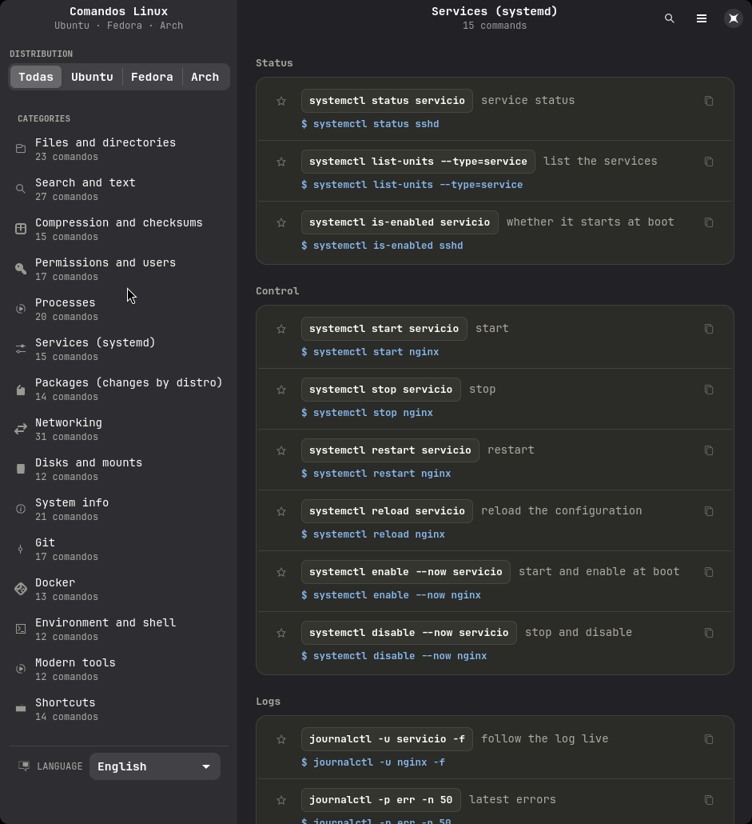
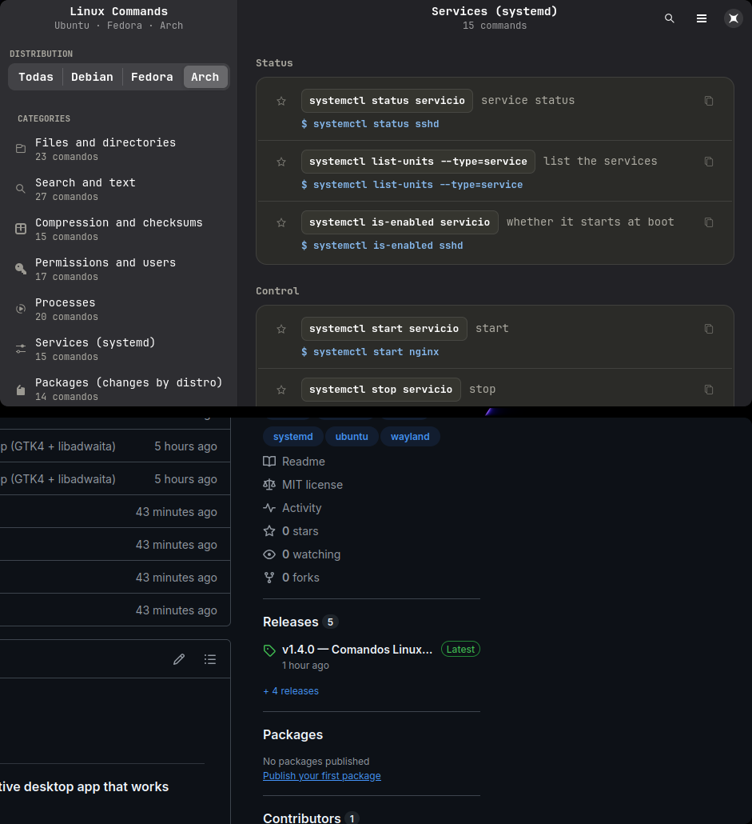
v1.5.0: English app name and fix the broken search filter
- The app now shows its own name in the active language:
  'Comandos Linux' in Spanish, 'Linux Commands' in English
  (window title, sidebar header and About dialog)
- Fix: the search query attribute shadowed the texto() helper, so the
  filter received a callable instead of a string; renamed to consulta
- README title is now 'Linux Commands'

diff --git a/src/comandos_linux/app.py b/src/comandos_linux/app.py
@@ -51,7 +51,7 @@ class ComandosApp(Adw.Application):
             # First run: use the family detected from the system.
             self.distro = self.familia_detectada or "todas"
         self.favoritos: list[str] = prefs.favoritos()
-        self.texto: str = ""
+        self.consulta: str = ""
         self._registrar_acciones()
 
     # -- ciclo de vida ---------------------------------------------------
@@ -135,7 +135,7 @@ class Ventana(Adw.ApplicationWindow):
     """Window with a navigation sidebar and a content panel."""
 
     def __init__(self, app: ComandosApp):
-        super().__init__(application=app, title="Comandos Linux")
+        super().__init__(application=app, title=app.texto("titulo_app", "Comandos Linux"))
         self.set_default_size(1080, 780)
         self.app = app
         self.add_css_class("cheatsheet")
@@ -175,14 +175,16 @@ class Ventana(Adw.ApplicationWindow):
         self.set_content(self.toasts)
 
     def _construir_sidebar(self) -> Adw.NavigationPage:
-        pagina = Adw.NavigationPage(title="Comandos Linux")
+        pagina = Adw.NavigationPage(title=self.app.texto("titulo_app", "Comandos Linux"))
 
         toolbar = Adw.ToolbarView()
         header = Adw.HeaderBar()
         header.add_css_class("sidebar-header")
-        header.set_title_widget(
-            Adw.WindowTitle(title="Comandos Linux", subtitle="Ubuntu · Fedora · Arch")
+        self.titulo_sidebar = Adw.WindowTitle(
+            title=self.app.texto("titulo_app", "Comandos Linux"),
+            subtitle="Ubuntu · Fedora · Arch",
         )
+        header.set_title_widget(self.titulo_sidebar)
         toolbar.add_top_bar(header)
 
         caja = Gtk.Box(orientation=Gtk.Orientation.VERTICAL, spacing=0)
@@ -238,13 +240,15 @@ class Ventana(Adw.ApplicationWindow):
         return pagina
 
     def _construir_contenido(self) -> Adw.NavigationPage:
-        pagina = Adw.NavigationPage(title="Comandos Linux")
+        pagina = Adw.NavigationPage(title=self.app.texto("titulo_app", "Comandos Linux"))
 
         toolbar = Adw.ToolbarView()
         header = Adw.HeaderBar()
 
         # The title is replaced by the search box when 🔍 is pressed
-        self.titulo_pagina = Adw.WindowTitle(title="Comandos Linux", subtitle="")
+        self.titulo_pagina = Adw.WindowTitle(
+            title=self.app.texto("titulo_app", "Comandos Linux"), subtitle=""
+        )
         self.buscador = Gtk.SearchEntry()
         self.buscador.set_hexpand(True)
         self.buscador.set_placeholder_text(
@@ -428,6 +432,8 @@ class Ventana(Adw.ApplicationWindow):
     def recargar(self) -> None:
         """Reloads the window after a language change."""
         self.indices = ds.indice(self.app.datos)
+        self.set_title(self.app.texto("titulo_app", "Comandos Linux"))
+        self.titulo_sidebar.set_title(self.app.texto("titulo_app", "Comandos Linux"))
         self.etiqueta_distribucion.set_label(
             self.t.get("seccion_distribucion", "DISTRIBUCIÓN")
         )
@@ -476,7 +482,7 @@ class Ventana(Adw.ApplicationWindow):
                     break
 
     def _cuenta_resultados(self) -> int:
-        return len(ds.filtrar(self.app.datos, self.app.texto, self.app.distro))
+        return len(ds.filtrar(self.app.datos, self.app.consulta, self.app.distro))
 
     # -- search --------------------------------------------------------
     def _al_toggle_busqueda(self, boton: Gtk.ToggleButton) -> None:
@@ -491,9 +497,9 @@ class Ventana(Adw.ApplicationWindow):
         self.buscador.grab_focus()
 
     def _al_buscar(self, entrada: Gtk.SearchEntry) -> None:
-        self.app.texto = entrada.get_text()
+        self.app.consulta = entrada.get_text()
         self._rellenar_resultados()
-        if self.app.texto.strip():
+        if self.app.consulta.strip():
             self.ir_a("resultados")
         else:
             self._actualizar_titulo()
@@ -604,8 +610,8 @@ class Ventana(Adw.ApplicationWindow):
     def _rellenar_resultados(self) -> None:
         self._vaciar(self.lista_resultados)
 
-        coincidencias = ds.filtrar(self.app.datos, self.app.texto, self.app.distro)
-        if not self.app.texto.strip():
+        coincidencias = ds.filtrar(self.app.datos, self.app.consulta, self.app.distro)
+        if not self.app.consulta.strip():
             self._mostrar_estado(
                 "system-search-symbolic",
                 self.t.get("vacio_buscar_titulo", "Busca un comando"),
@@ -624,7 +630,7 @@ class Ventana(Adw.ApplicationWindow):
                 self.t.get(
                     "vacio_sin_resultados_texto",
                     "No hay ningún comando que coincida con «{texto}».",
-                ).format(texto=self.app.texto),
+                ).format(texto=self.app.consulta),
             )
             return
 
@@ -777,9 +783,9 @@ class Ventana(Adw.ApplicationWindow):
     def about(self) -> None:
         ventana = Adw.AboutWindow(
             transient_for=self,
-            application_name="Comandos Linux",
+            application_name=self.app.texto("titulo_app", "Comandos Linux"),
             application_icon="comandos-linux",
-            version="1.4.0",
+            version="1.5.0",
             developer="Angel Herman",
             comments=self.t.get(
                 "about_comentarios",

diff --git a/src/comandos_linux/__init__.py b/src/comandos_linux/__init__.py
@@ -3,5 +3,5 @@
 Offline desktop application. The data lives in `datos/comandos.json`.
 """
 
-__version__ = "1.4.0"
+__version__ = "1.5.0"
 __all__ = ["__version__"]

diff --git a/README.md b/README.md
@@ -1,10 +1,13 @@
 <div align="center">
 
-# Comandos Linux
+# Linux Commands
 
 **A Linux command cheat sheet for Ubuntu, Fedora and Arch — as a native desktop app that works completely offline.**
 
-![Comandos Linux app](docs/captura-app.png)
+> The app is called *Comandos Linux* in Spanish and *Linux Commands* in English;
+> it shows its own name in the language you pick.
+
+![Linux Commands app](docs/captura-app.png)
 
 </div>
 
